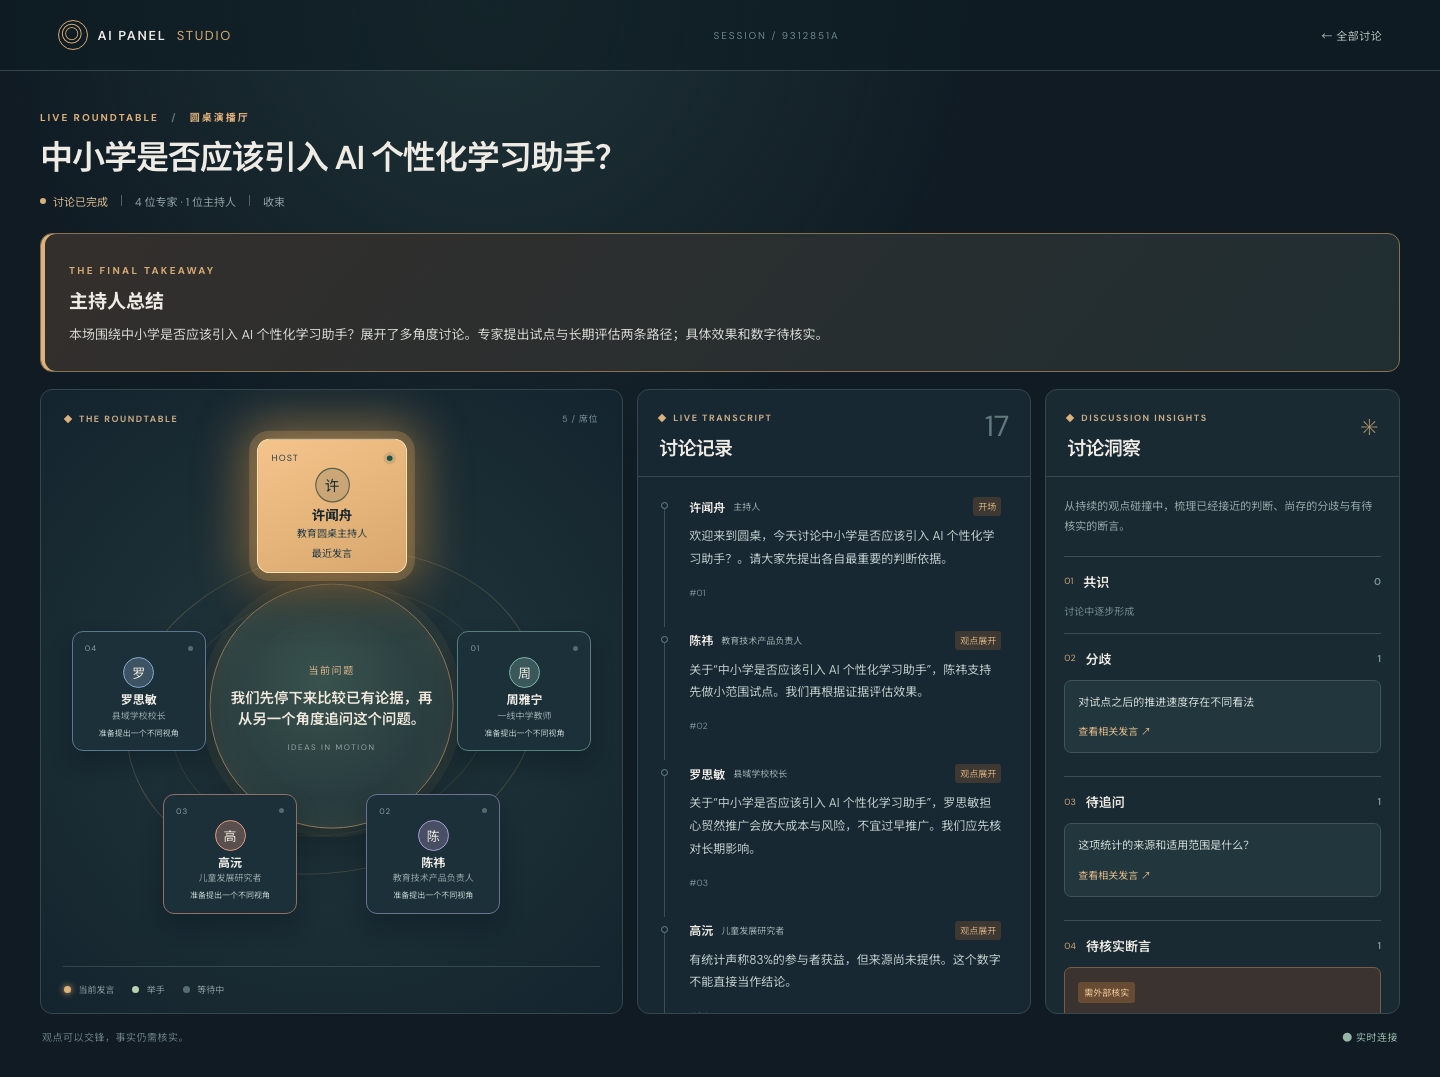
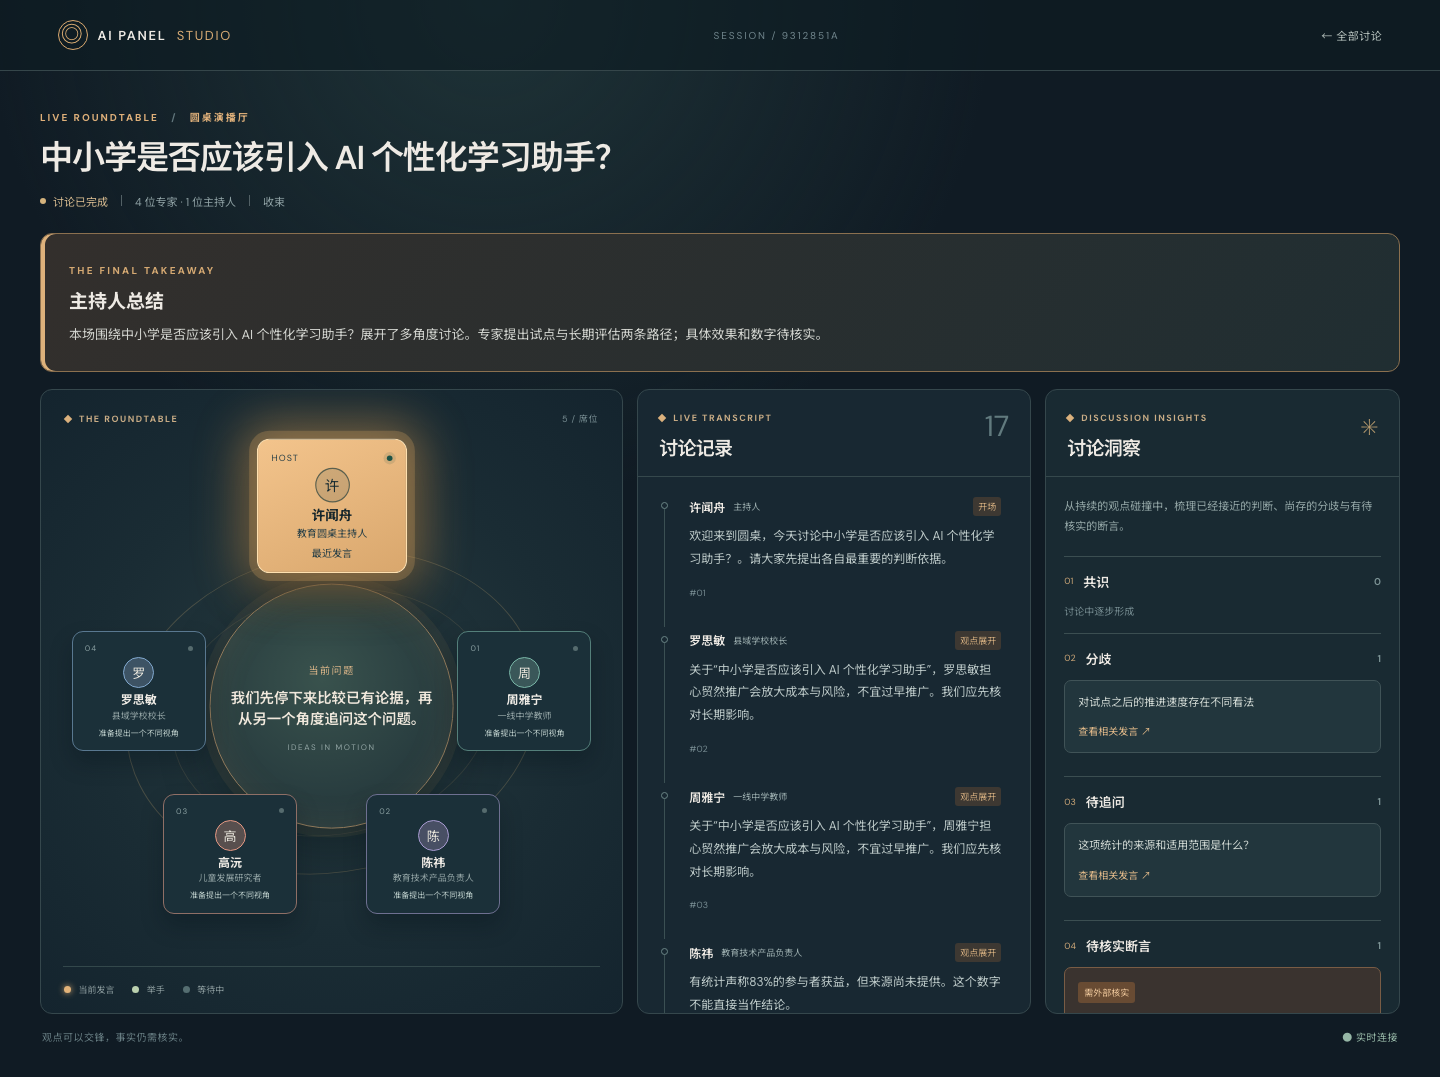
test: keep browser captures out of tracked docs

diff --git a/frontend/e2e/roundtable.spec.ts b/frontend/e2e/roundtable.spec.ts
@@ -1,8 +1,4 @@
 import { expect, test } from '@playwright/test';
-import { mkdirSync } from 'node:fs';
-import { resolve } from 'node:path';
-
-const screenshots = resolve(process.cwd(), '../docs/screenshots');
 
 test('a roundtable survives refresh, locates risks, and reaches a natural summary', async ({ page }) => {
   await page.goto('/');
@@ -10,8 +6,7 @@ test('a roundtable survives refresh, locates risks, and reaches a natural summar
   await page.getByRole('button', { name: '创建圆桌' }).click();
   await expect(page.getByRole('button', { name: '确认阵容，开始讨论' })).toBeVisible();
   await expect(page.getByRole('region', { name: '阵容预览' })).toContainText('视角1');
-  mkdirSync(screenshots, { recursive: true });
-  await page.screenshot({ path: resolve(screenshots, 'panel-preview.png'), fullPage: true });
+  await page.screenshot({ path: test.info().outputPath('panel-preview.png'), fullPage: true });
   await page.getByRole('button', { name: '确认阵容，开始讨论' }).click();
   await expect(page.locator('[data-testid="transcript-message"]').first()).toBeVisible();
   await expect(page.locator('.round-seat.seat-active')).toHaveCount(1);
@@ -32,8 +27,7 @@ test('a roundtable survives refresh, locates risks, and reaches a natural summar
   if (await seedStart.isVisible()) await seedStart.click();
   await expect(seedSummary).toBeVisible();
   await expect(page.getByRole('link', { name: /查看原发言/ })).toBeVisible();
-  mkdirSync(screenshots, { recursive: true });
-  await page.screenshot({ path: resolve(screenshots, 'desktop.png'), fullPage: true });
+  await page.screenshot({ path: test.info().outputPath('desktop.png'), fullPage: true });
 
   await page.setViewportSize({ width: 390, height: 844 });
   await page.getByRole('tab', { name: '洞察' }).click();
@@ -49,7 +43,7 @@ test('a roundtable survives refresh, locates risks, and reaches a natural summar
   }));
   expect(dimensions.page).toBe(dimensions.viewport);
   expect(dimensions.scroll).toBeGreaterThan(dimensions.visible);
-  await page.screenshot({ path: resolve(screenshots, 'mobile.png'), fullPage: true });
+  await page.screenshot({ path: test.info().outputPath('mobile.png'), fullPage: true });
 });
 
 test('two concurrently running roundtables do not mix their records', async ({ page, context }) => {
